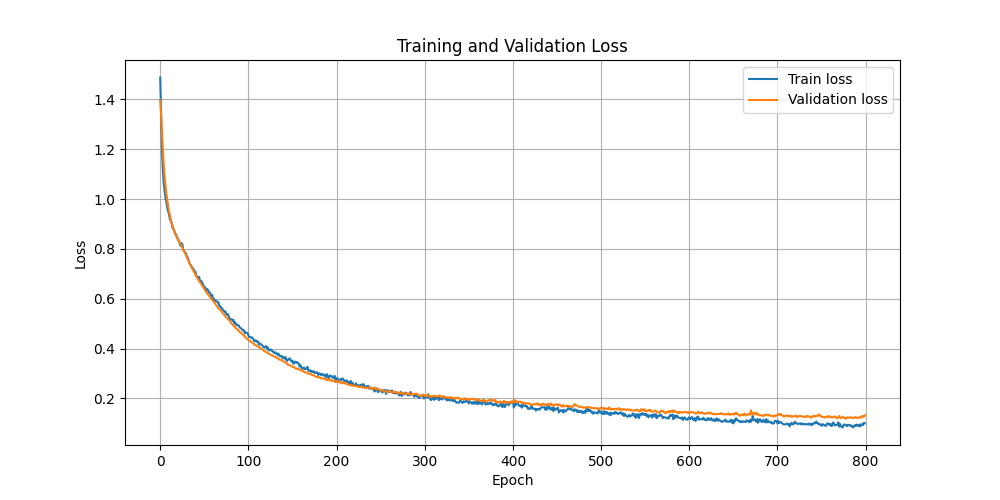
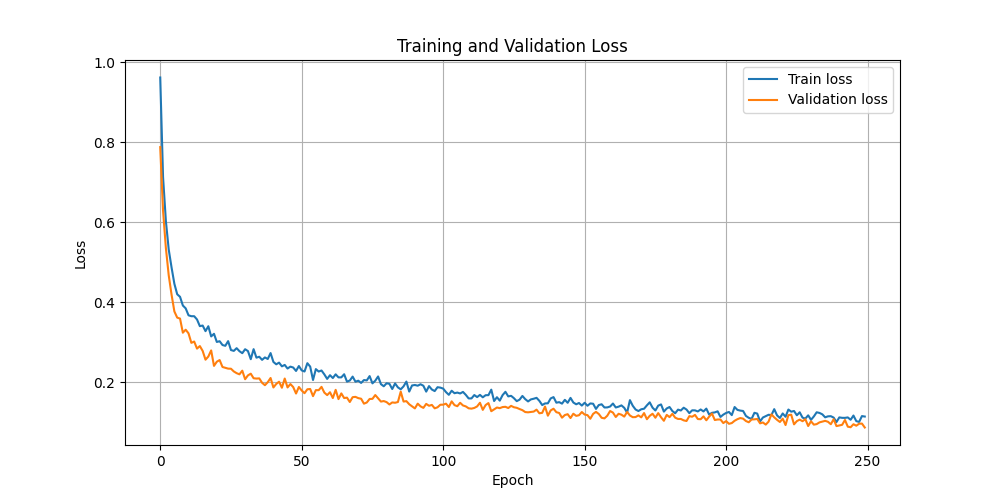
comparing sums per class

diff --git a/neural_networks/beed_network.py b/neural_networks/beed_network.py
@@ -7,12 +7,29 @@ from draw_loss import draw_loss
 
 PATH = "./models/beed_mlp_2.pth"
 
+# class Net(nn.Module):
+#     def __init__(self, input_size=16, num_classes=4):
+#         super().__init__()
+#         self.fc1 = nn.Linear(input_size, 64)
+#         self.bn1 = nn.BatchNorm1d(64)
+#         self.fc2 = nn.Linear(64, 32)
+#         self.bn2 = nn.BatchNorm1d(32)
+#         self.fc3 = nn.Linear(32, num_classes)
+#         self.sm = nn.Softmax(num_classes)
+#         self.dropout = nn.Dropout(0.3)
+
+#     def forward(self, x):
+#         x = F.gelu(self.bn1(self.fc1(x)))
+#         x = F.gelu(self.bn2(self.fc2(x)))
+#         x = self.fc3(x)
+#         return x
+
 class Net(nn.Module):
     def __init__(self, input_size=16, num_classes=4):
         super().__init__()
         self.fc1 = nn.Linear(input_size, 64)
         self.bn1 = nn.BatchNorm1d(64)
-        self.fc2 = nn.Linear(64, 32)
+        self.fc2 = nn.Linear(64, 32, bias=True)
         self.bn2 = nn.BatchNorm1d(32)
         self.fc3 = nn.Linear(32, num_classes)
         self.dropout = nn.Dropout(0.3)
@@ -26,12 +43,14 @@ class Net(nn.Module):
 def train(epochs, train_dataloader, val_dataloader, device, net=None):  
     if net is None:
         net = Net()
-    
     net.to(device)
+
     criterion = nn.CrossEntropyLoss()
     optimizer = optim.SGD(net.parameters(), lr=0.01, momentum=0.9)
+    
     average_train_losses = []
     val_losses = []
+    
     for epoch in range(epochs):
         net.train()
         running_loss = 0.0
@@ -100,11 +119,11 @@ def test(dataloader, classes, device, net=None):
     print(f"Average accuracy: {sum_acc / 4}")
 
 if __name__ == "__main__":
-    batch_size = 2256
+    batch_size = 64
     device = torch.device('cuda:0' if torch.cuda.is_available() else 'cpu')
     train_dataloader, val_dataloader, test_dataloader = get_dataloaders(batch_size)
 
-    epochs = 800
+    epochs = 250
     train(epochs, train_dataloader, val_dataloader, device)
 
     classes = (0, 1, 2, 3)
